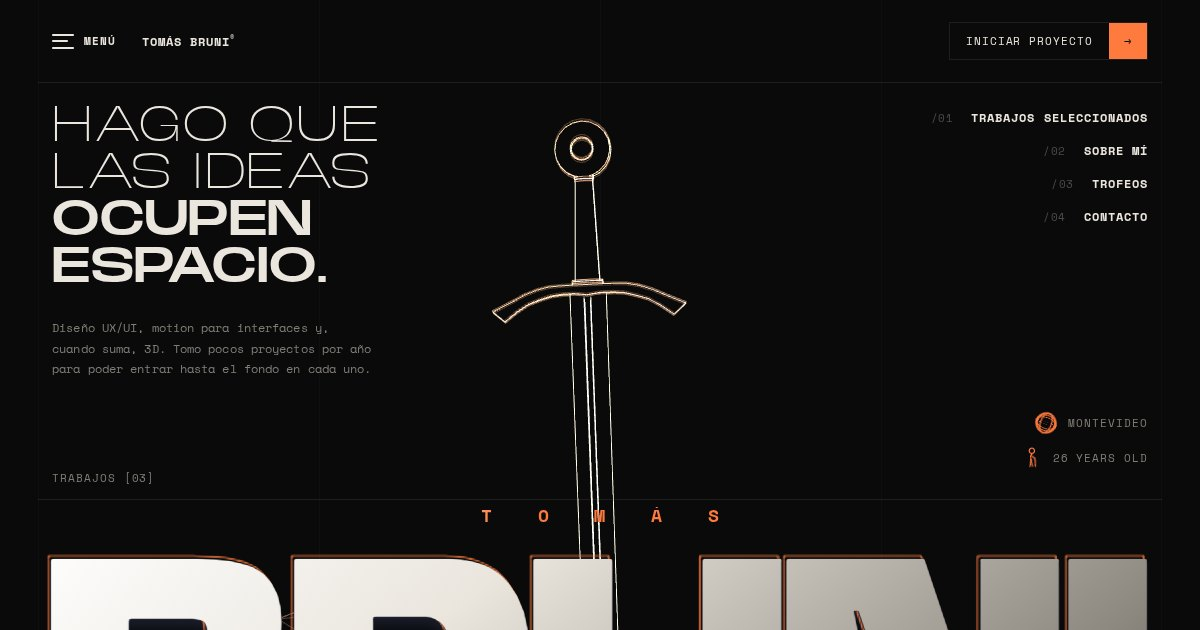
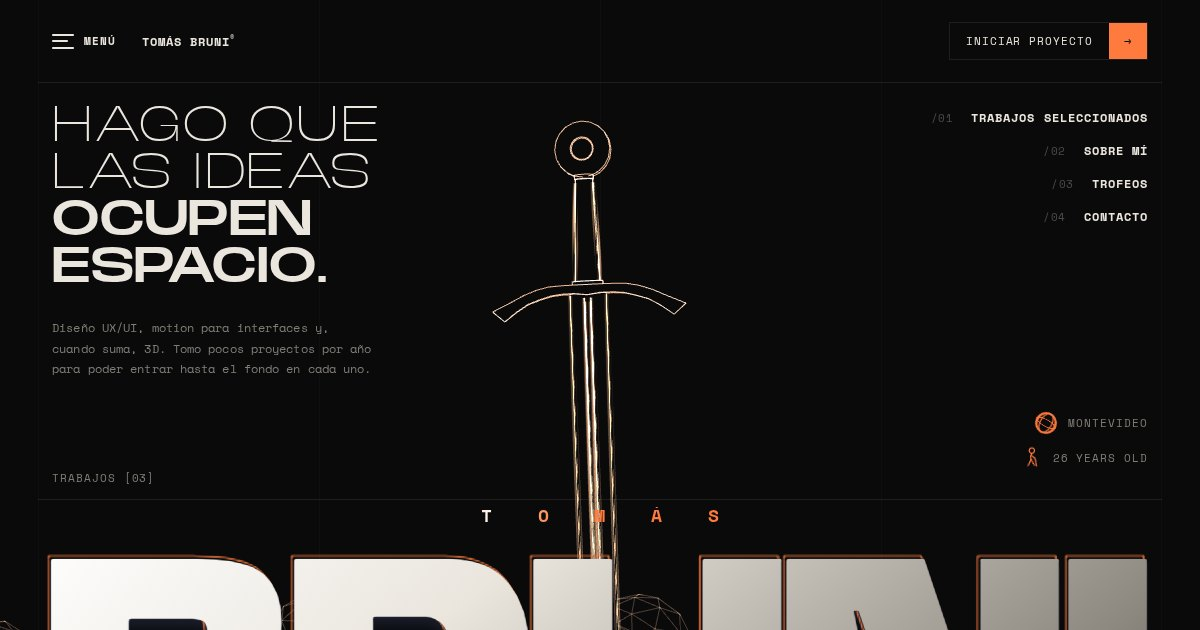
Fix mobile overflow and placeholder links, lighter frames, SEO/AEO/GEO
Bugs
- Instagram now points to @tomibrunirgs; the placeholder LinkedIn link
  is removed until there is a profile
- The name layers no longer push the page sideways on phones
  (overflow-x clipped on html)

Performance
- three.js is preloaded from the head
- The cursor ball checks what it touches every third frame instead of
  forcing layout on every frame
- 3D scenes read the tilt from a JS variable instead of computed styles
- On touch screens the tilt drift only runs on the hero, while it is
  visible and at half rate, instead of restyling the whole page
- The phone cord is only rebuilt when the handset moves

SEO, AEO and GEO
- Canonical URL, robots meta, absolute Open Graph URL and image,
  profile tags and rel=me for Instagram
- JSON-LD graph: WebSite, ProfilePage, Person (with sameAs) and the
  list of selected works with their live URLs
- robots.txt, sitemap.xml and llms.txt at the site root
- Share image regenerated with the new sword

Claude-Session: https://claude.ai/code/session_01YVD6Q9gRUcxZDvyhKjsZiy

diff --git a/index.html b/index.html
@@ -6,25 +6,45 @@
 <title>Tomás Bruni® — Diseñador UX/UI y web en Montevideo</title>
 <meta name="description" content="Tomás Bruni, diseñador UX/UI en Montevideo, Uruguay. Diseño sitios web e interfaces de punta a punta, con motion que las hace más claras. Contame tu proyecto.">
 <meta name="author" content="Tomás Bruni">
+<meta name="robots" content="index,follow,max-image-preview:large">
+<link rel="canonical" href="https://tomiweb.tomasbruni1999.workers.dev/">
 <meta name="theme-color" content="#0A0A0B">
 <link rel="icon" href="assets/favicon.svg" type="image/svg+xml">
 <link rel="apple-touch-icon" href="assets/apple-touch-icon.png">
-<meta property="og:type" content="website">
+<link rel="me" href="https://www.instagram.com/tomibrunirgs/">
+<link rel="preload" href="vendor/three-r128.min.js" as="script">
+<meta property="og:type" content="profile">
+<meta property="og:url" content="https://tomiweb.tomasbruni1999.workers.dev/">
 <meta property="og:locale" content="es_UY">
 <meta property="og:site_name" content="Tomás Bruni®">
 <meta property="og:title" content="Tomás Bruni® — Diseñador UX/UI y web en Montevideo">
 <meta property="og:description" content="Diseño sitios web e interfaces de punta a punta, con motion que las hace más claras.">
-<meta property="og:image" content="assets/og.jpg">
+<meta property="og:image" content="https://tomiweb.tomasbruni1999.workers.dev/assets/og.jpg">
 <meta property="og:image:width" content="1200">
 <meta property="og:image:height" content="630">
 <meta property="og:image:alt" content="Tomás Bruni — portfolio de diseño UX/UI y web">
+<meta property="profile:first_name" content="Tomás">
+<meta property="profile:last_name" content="Bruni">
+<meta property="profile:username" content="tomibrunirgs">
 <meta name="twitter:card" content="summary_large_image">
+<!-- Datos estructurados: quien es, que hace y sus proyectos. Los leen buscadores y asistentes de IA. -->
 <script type="application/ld+json">
-{"@context":"https://schema.org","@type":"Person","name":"Tomás Bruni",
- "jobTitle":"Diseñador UX/UI",
- "knowsAbout":["Diseño UX/UI","Diseño web","Motion para interfaces","Design systems","3D"],
- "address":{"@type":"PostalAddress","addressLocality":"Montevideo","addressCountry":"UY"},
- "email":"mailto:hola@tomasbruni.com"}
+{"@context":"https://schema.org","@graph":[
+ {"@type":"WebSite","@id":"https://tomiweb.tomasbruni1999.workers.dev/#sitio","url":"https://tomiweb.tomasbruni1999.workers.dev/","name":"Tomás Bruni®","inLanguage":"es","publisher":{"@id":"https://tomiweb.tomasbruni1999.workers.dev/#tomas"}},
+ {"@type":"ProfilePage","@id":"https://tomiweb.tomasbruni1999.workers.dev/#perfil","url":"https://tomiweb.tomasbruni1999.workers.dev/","name":"Tomás Bruni® — Diseñador UX/UI y web en Montevideo","inLanguage":"es","isPartOf":{"@id":"https://tomiweb.tomasbruni1999.workers.dev/#sitio"},"mainEntity":{"@id":"https://tomiweb.tomasbruni1999.workers.dev/#tomas"}},
+ {"@type":"Person","@id":"https://tomiweb.tomasbruni1999.workers.dev/#tomas","name":"Tomás Bruni","alternateName":"tomibrunirgs","url":"https://tomiweb.tomasbruni1999.workers.dev/",
+  "image":"https://tomiweb.tomasbruni1999.workers.dev/assets/retrato.webp","jobTitle":"Diseñador UX/UI y web",
+  "description":"Diseñador UX/UI y web en Montevideo, Uruguay. Diseña sitios web e interfaces de punta a punta, con motion para que las pantallas se entiendan mejor, y 3D cuando suma.",
+  "email":"mailto:hola@tomasbruni.com","sameAs":["https://www.instagram.com/tomibrunirgs/"],
+  "address":{"@type":"PostalAddress","addressLocality":"Montevideo","addressCountry":"UY"},
+  "knowsLanguage":"es",
+  "knowsAbout":["Diseño UX/UI","Diseño web","Motion para interfaces","Design systems","Prototipos animados","3D","Figma","Illustrator","Photoshop"]},
+ {"@type":"ItemList","@id":"https://tomiweb.tomasbruni1999.workers.dev/#trabajos","name":"Trabajos seleccionados","itemListElement":[
+  {"@type":"ListItem","position":1,"item":{"@type":"CreativeWork","name":"Orbitronic","url":"https://orbitronic-web.tomasbruni1999.workers.dev/","dateCreated":"2026","creator":{"@id":"https://tomiweb.tomasbruni1999.workers.dev/#tomas"},"description":"Marca y web 3D de una gaseosa inventada de la era atómica de los años 50: un recorrido con scroll del cartel de ruta a una cocina y al espacio."}},
+  {"@type":"ListItem","position":2,"item":{"@type":"CreativeWork","name":"Sedant","url":"https://sedant-web.tomasbruni1999.workers.dev/","dateCreated":"2026","creator":{"@id":"https://tomiweb.tomasbruni1999.workers.dev/#tomas"},"description":"Marca, sistema de diseño y sitio de e-commerce de una maison de perfumes ficticia: cuatro fragancias, ficha de producto y compra por WhatsApp."}},
+  {"@type":"ListItem","position":3,"item":{"@type":"CreativeWork","name":"Daiana Guerra","url":"https://daiana-guerra-web.pages.dev/","dateCreated":"2026","creator":{"@id":"https://tomiweb.tomasbruni1999.workers.dev/#tomas"},"description":"Sitio web."}}
+ ]}
+]}
 </script>
 <style>
 @font-face{font-family:'Space Mono';font-style:normal;font-weight:400;font-display:swap;
@@ -67,6 +87,8 @@
 }
 *{margin:0;padding:0;box-sizing:border-box}
 html,body{background:var(--void);transition:background-color .5s ease;color:var(--bone);font-family:var(--disp);-webkit-font-smoothing:antialiased;text-rendering:optimizeLegibility}
+html{overflow-x:hidden}
+@supports (overflow-x:clip){html{overflow-x:clip}}
 body{min-height:100svh;overflow-x:hidden}
 a{color:inherit;text-decoration:none}
 :focus-visible{outline:1.5px solid var(--rim);outline-offset:4px}
@@ -826,8 +848,7 @@ body.viendo-caso #casos{display:block}
     <h2 class="ctitulo up">Contame<br><u>tu proyecto.</u></h2>
     <div class="clinks up">
       <a href="mailto:hola@tomasbruni.com"><span class="num n">/01</span><span class="d">hola@tomasbruni.com</span></a>
-      <a href="https://instagram.com/" target="_blank" rel="noopener"><span class="num n">/02</span><span class="d">Instagram</span></a>
-      <a href="https://www.linkedin.com/" target="_blank" rel="noopener"><span class="num n">/03</span><span class="d">LinkedIn</span></a>
+      <a href="https://www.instagram.com/tomibrunirgs/" target="_blank" rel="noopener me"><span class="num n">/02</span><span class="d">Instagram · @tomibrunirgs</span></a>
     </div>
     <p class="note up">Respondo en menos de 48 horas. Contame el proyecto, los plazos y el presupuesto que manejás.</p>
   </div>
@@ -1119,6 +1140,7 @@ if(!matchMedia('(prefers-reduced-motion:reduce)').matches && matchMedia('(hover:
     });
   }
 
+  var cuadro=0;
   function paso(now){
     requestAnimationFrame(paso);
     if(imantada){
@@ -1145,7 +1167,7 @@ if(!matchMedia('(prefers-reduced-motion:reduce)').matches && matchMedia('(hover:
       }
     }
     bola.style.transform='translate3d('+(x-R)+'px,'+(y-R)+'px,0)';
-    marcar(); limpiar(now);
+    if((cuadro=(cuadro+1)%3)===0){marcar(); limpiar(now);}   // elementFromPoint fuerza layout: no hace falta en cada cuadro
   }
   requestAnimationFrame(paso);
 })();
@@ -1160,6 +1182,7 @@ function loop(){
   const dx=tx-cx, dy=ty-cy;
   if(Math.abs(dx)<.0004&&Math.abs(dy)<.0004)return;   // quieto: no toca el DOM
   cx+=dx*.1; cy+=dy*.1;
+  window.__lx=cx; window.__ly=cy;
   try{
     r.style.setProperty('--lx',cx.toFixed(3));
     r.style.setProperty('--ly',cy.toFixed(3));
@@ -1173,12 +1196,18 @@ if(!matchMedia('(prefers-reduced-motion:reduce)').matches){
     },{passive:true});
     requestAnimationFrame(loop);
   }else{
-    const t0=performance.now();
+    // en pantallas tactiles la inclinacion es un vaiven lento. Va solo sobre el inicio (no sobre toda la pagina),
+    // mientras se ve y a medio ritmo: cambiar estas variables obliga a recalcular el estilo de lo que las usa
+    const t0=performance.now(), hero=document.getElementById('inicio');
+    let heroVisible=true, impar=false;
+    if('IntersectionObserver' in window)new IntersectionObserver(es=>{heroVisible=es[0].isIntersecting;}).observe(hero);
     (function drift(now){
-      const s=(now-t0)/1000;
-      r.style.setProperty('--lx',(Math.sin(s*.5)*.8).toFixed(3));
-      r.style.setProperty('--ly',(Math.cos(s*.34)*.55).toFixed(3));
       requestAnimationFrame(drift);
+      if(!heroVisible||(impar=!impar))return;
+      const s=(now-t0)/1000, lx=Math.sin(s*.5)*.8, ly=Math.cos(s*.34)*.55;
+      window.__lx=lx; window.__ly=ly;
+      hero.style.setProperty('--lx',lx.toFixed(3));
+      hero.style.setProperty('--ly',ly.toFixed(3));
     })(t0);
   }
 }
@@ -1527,7 +1556,7 @@ if(!matchMedia('(prefers-reduced-motion:reduce)').matches){
   if('IntersectionObserver' in window)
     new IntersectionObserver(function(ev){visible=ev[0].isIntersecting;}).observe(wrap);
 
-  var css=getComputedStyle(document.documentElement),sp=0;
+  var sp=0;
   var avisado=false;
   (function loop(t){
     requestAnimationFrame(loop);
@@ -1545,8 +1574,7 @@ if(!matchMedia('(prefers-reduced-motion:reduce)').matches){
     }
     grupo.position.y=-e*.6;
     cam.position.set(0,CY,d0*(1+e*.6)); cam.lookAt(0,CY,0);   // retrocede mas al soltarse
-    var lx=parseFloat(css.getPropertyValue('--lx'))||0;
-    var ly=parseFloat(css.getPropertyValue('--ly'))||0;
+    var lx=window.__lx||0, ly=window.__ly||0;
     key.position.set(-4.5-lx*5,4.2-ly*3.5,4.5);
     rim.position.set(4.8-lx*5,-1.4-ly*3,-3.4);
     for(var li=0;li<lineas.length;li++){
@@ -1680,7 +1708,7 @@ if(!matchMedia('(prefers-reduced-motion:reduce)').matches){
     }
     cableGeo.setFromPoints(pts);
   }
-  rehacerCable(0);
+  rehacerCable(0); var cableAlto=0;
 
   tel.position.y=-1.45;
   var pivote=new THREE.Group(); pivote.add(tel); scene.add(pivote);
@@ -1738,13 +1766,12 @@ if(!matchMedia('(prefers-reduced-motion:reduce)').matches){
       tubo.position.z=alza*.26;             // se adelanta al despegar
       tubo.rotation.x=-alza*.07;
     }
-    rehacerCable(h2);
+    if(Math.abs(h2-cableAlto)>.0005){cableAlto=h2; rehacerCable(h2);}   // si el tubo no se mueve, el cable tampoco
 
     pivote.position.x=offX;
     pivote.position.y=-3.4*(1-e);          // sube desde abajo
     pivote.rotation.x=(1-e)*.5;
-    var lx=parseFloat(getComputedStyle(document.documentElement).getPropertyValue('--lx'))||0;
-    var ly=parseFloat(getComputedStyle(document.documentElement).getPropertyValue('--ly'))||0;
+    var lx=window.__lx||0, ly=window.__ly||0;
     pivote.rotation.y=quieto?-.5:(-.5+lx*.32+Math.sin(t/5200)*.13);
     pivote.rotation.z=quieto?0:ly*.05;
     cam.position.set(0,offY,d0); cam.lookAt(0,offY,0);
@@ -2820,7 +2847,7 @@ if(!matchMedia('(prefers-reduced-motion:reduce)').matches){
     requestAnimationFrame(loop);
     if(!visible)return;
     try{
-    var lx=parseFloat(getComputedStyle(document.documentElement).getPropertyValue('--lx'))||0;
+    var lx=window.__lx||0;
     mueble.rotation.y=-.32+lx*.14;
     mueble.updateMatrixWorld();
     // con un trofeo elegido la estanteria se apaga y queda de fondo
